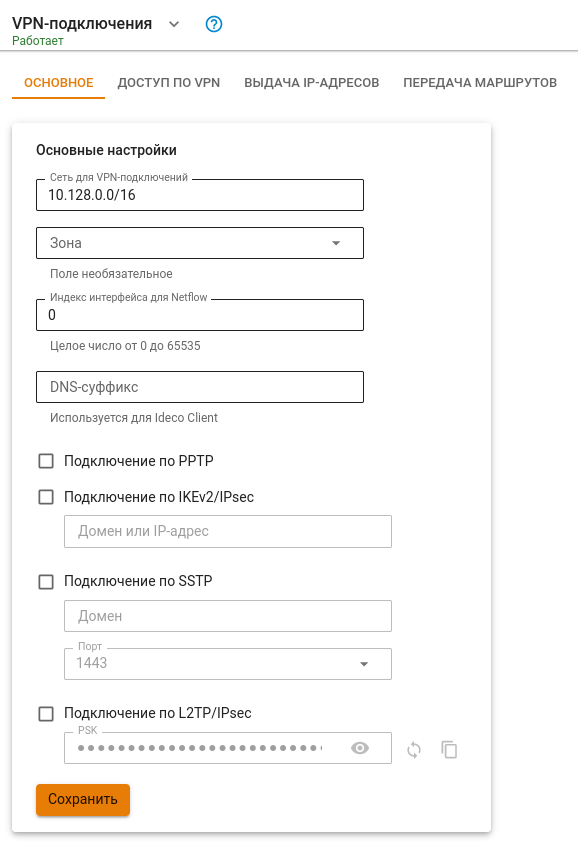
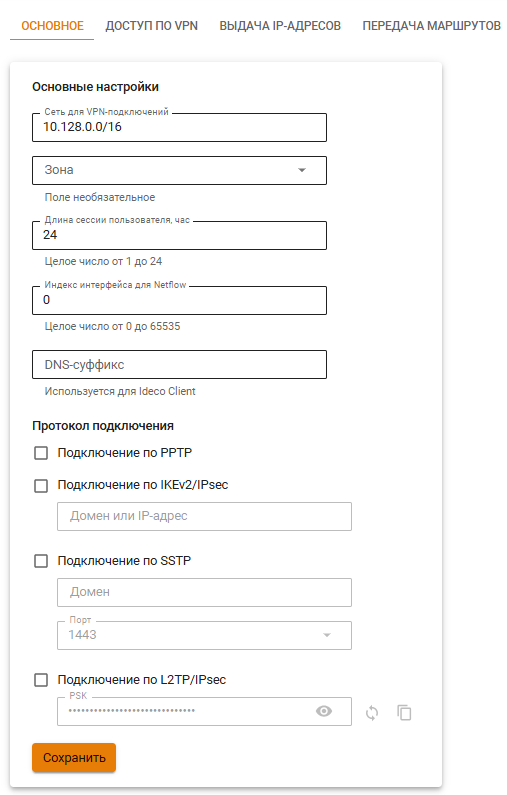
ICS-46083 УТМ. Добавить инфу об ограничении длины сессии VPN клиента

diff --git a/settings/users/authorization/vpn-connection/README.md b/settings/users/authorization/vpn-connection/README.md
@@ -47,8 +47,8 @@ description: >-
 <summary>Расшифрока полей</summary>
 
 * **Сеть для VPN-подключений** - укажите подсеть, в рамках которой будут динамически назначаться IP-адреса. Маска подсети должна быть в диапазоне от 16 до 30 бит;
-* **Зона** - добавьте сетевые интерфейсы для подключения по VPN (опционально);
-Если требуется настроить VPN-подключение к [Loopback-интерфейсу](/settings/services/connection-to-provider/loopback.md), оставьте поле **Зона** пустым;
+* **Зона** - добавьте сетевые интерфейсы для подключения по VPN (опционально). Если требуется настроить VPN-подключение к [Loopback-интерфейсу](/settings/services/connection-to-provider/loopback.md), оставьте поле **Зона** пустым;
+* **Длина сессии пользователя, час** - укажите продолжительность сессиии пользователя (целое число от 1 до 24);
 * **Индекс интерфейса для Netflow** - введите индекс для идентификации интерфейса (целое число от 0 до 65535), если используете Netflow;
 * **DNS-суффикс** - укажите DNS-суффикс, если для подключения по VPN используется [Ideco Client](/settings/users/ideco-client/README.md) (опционально);
 * Выберите, какой протокол подключения будет использоваться.
